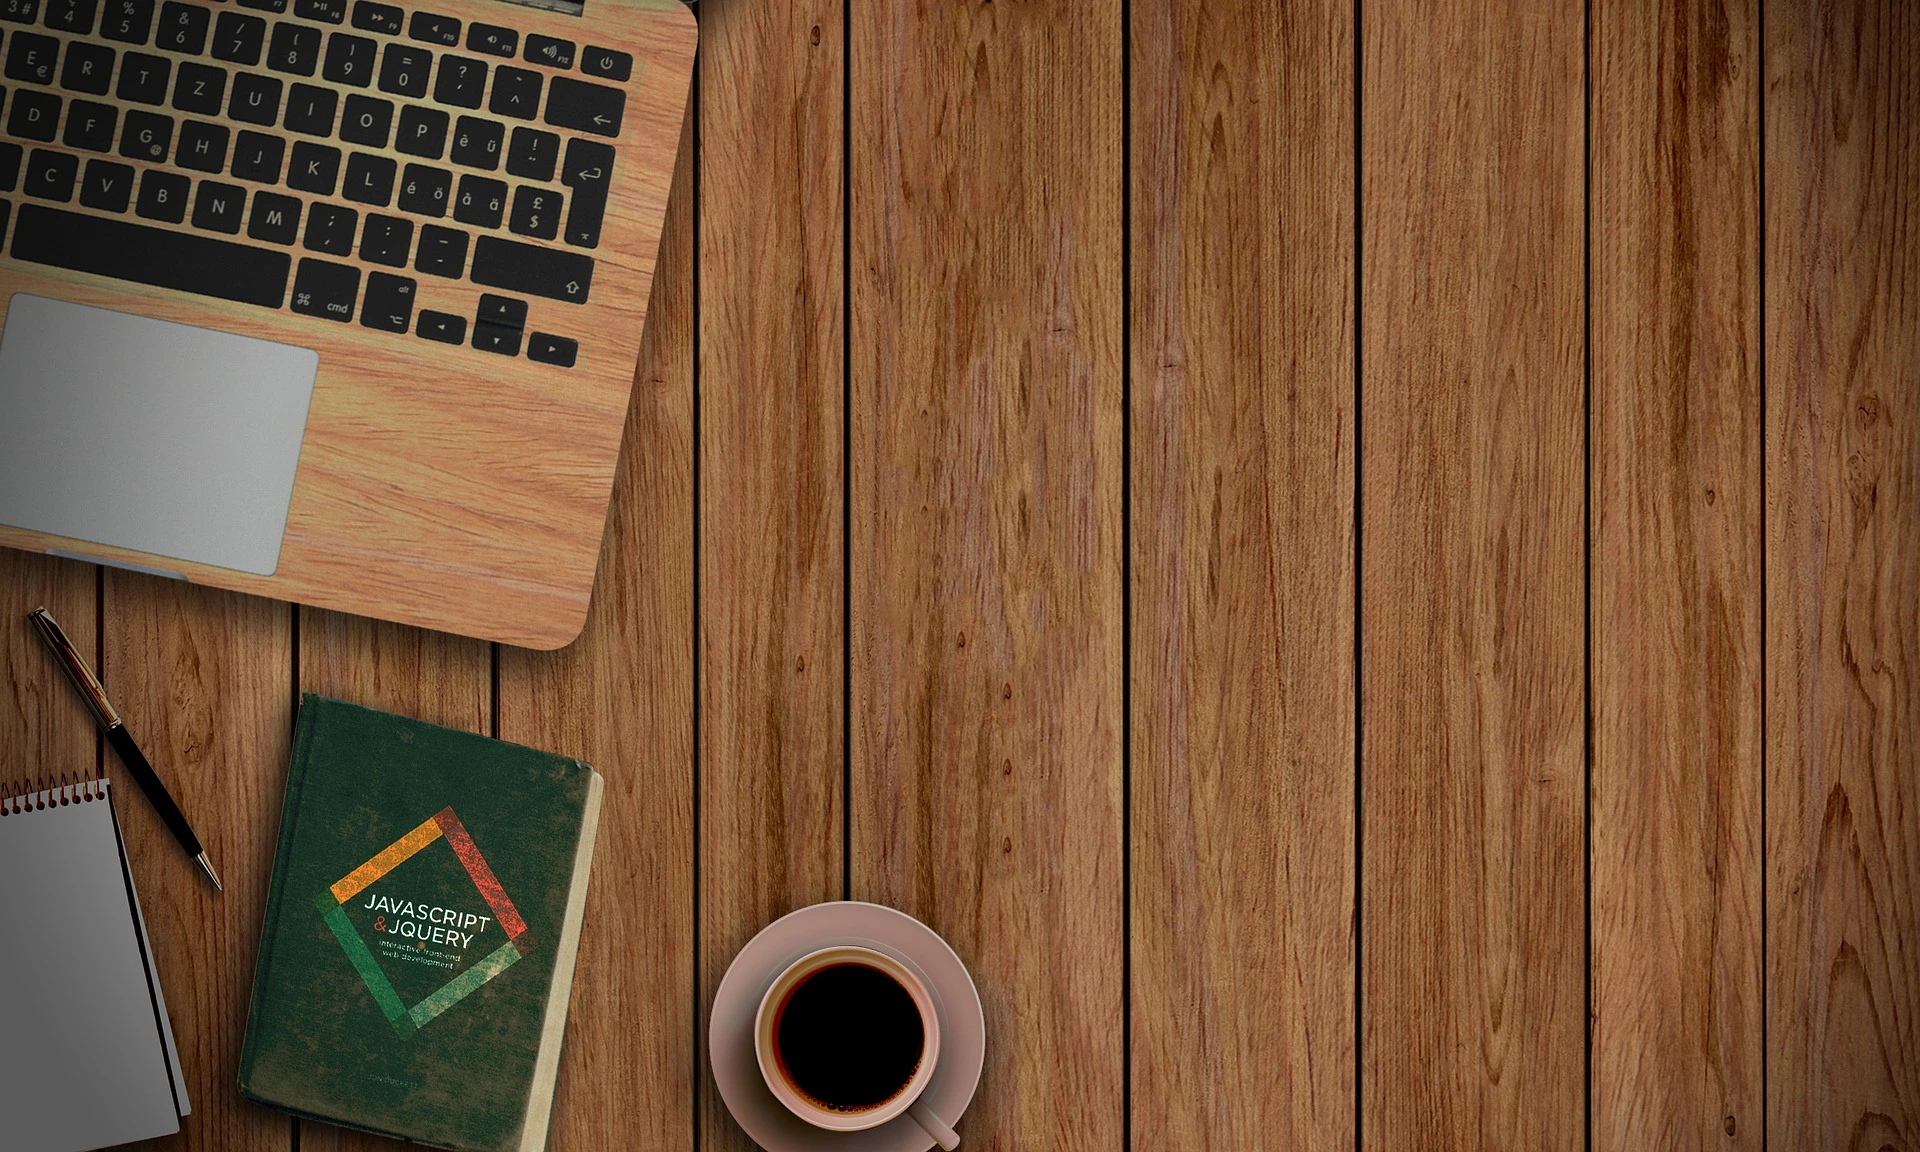
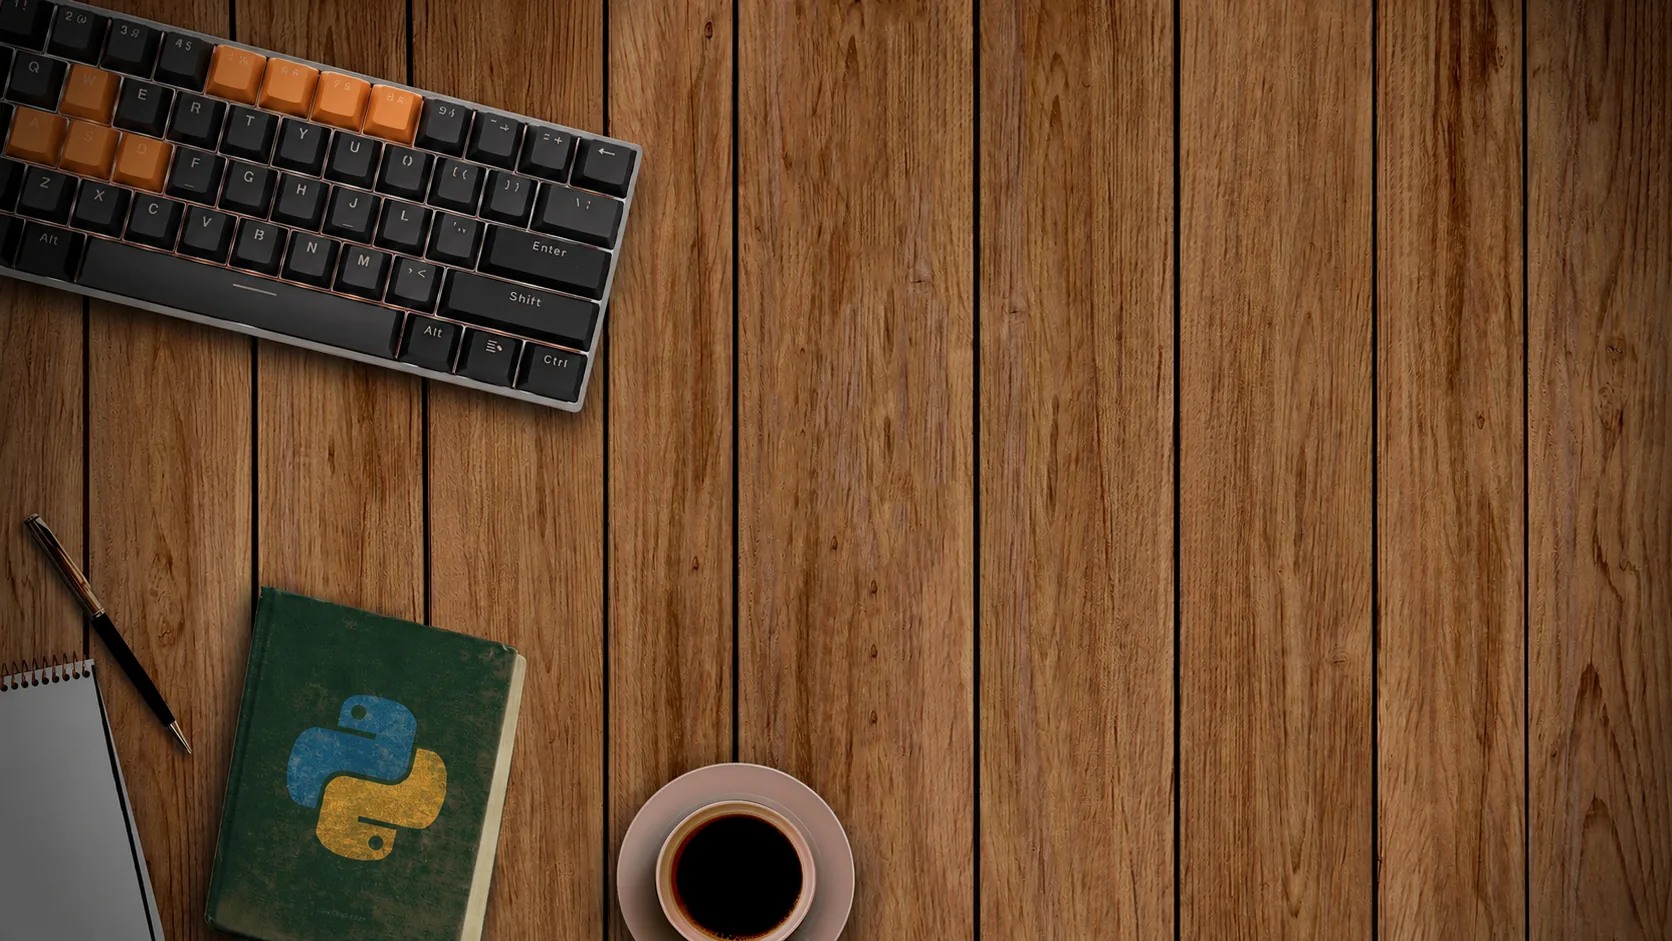
Replace homepage hero image

diff --git a/_includes/home.html b/_includes/home.html
@@ -2,7 +2,19 @@
 {%- assign strings = site.data.translations[locale] -%}
 <div class="home">
 <section class="hero {% if site.cover %}is-medium has-background has-dark-overlay has-text-shadow has-box-shadow{% else %}is-medium is-dark-red{% endif %}">
-  {% if site.cover %}<img alt="Site cover" class="hero-background is-transparent" src="{{ site.cover | prepend: site.baseurl }}" />{% endif %}
+  {% if site.cover %}
+  <img alt="Mechanical keyboard, Python notebook and coffee on a wooden desk"
+       class="hero-background is-transparent"
+       src="{{ site.cover | prepend: site.baseurl }}"
+       srcset="{{ site.cover_640 | prepend: site.baseurl }} 640w,
+               {{ site.cover_1024 | prepend: site.baseurl }} 1024w,
+               {{ site.cover | prepend: site.baseurl }} 1672w"
+       sizes="100vw"
+       width="1672"
+       height="941"
+       fetchpriority="high"
+       decoding="async" />
+  {% endif %}
   <div class="hero-body"><div class="container has-text-centered">
     {% if site.sticker %}
     <img src="{{ site.sticker | prepend: site.baseurl }}"
